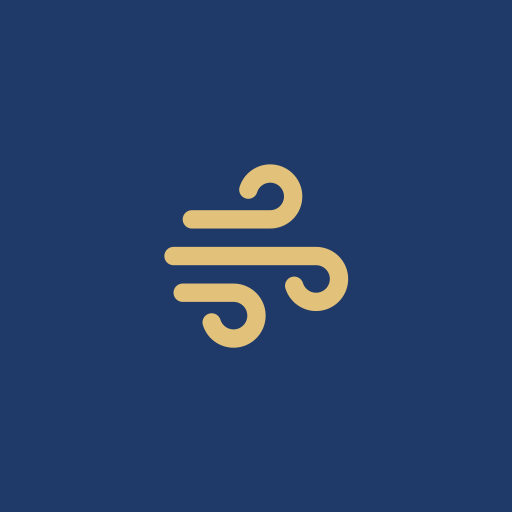
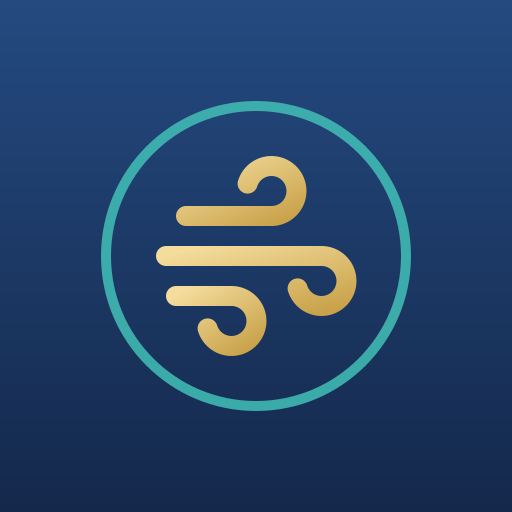
Nová ikona aplikace (zlatý vítr v kruhu)
Claude-Session: https://claude.ai/code/session_01U7bc76AnZDDB2CcszDDDeA

diff --git a/sw.js b/sw.js
@@ -1,4 +1,4 @@
-const V = "muj-dech-v1";
+const V = "muj-dech-v2";
 const PRECACHE = [
   "./",
   "index.html",
